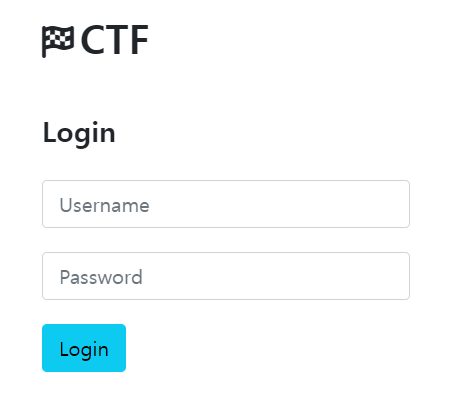
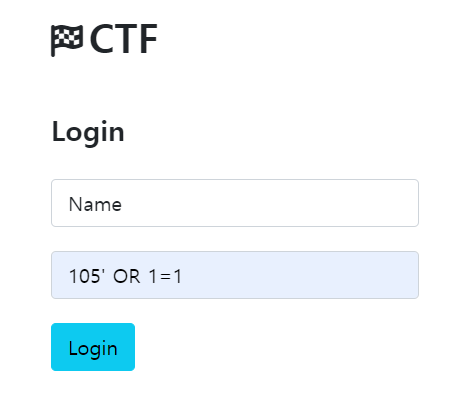
step 1

diff --git a/index3.html b/index3.html
@@ -77,7 +77,7 @@
                     <div class="col-lg-8">
 <!--                         <h2 class="text-white" style="font-weight: 600;">About the Projects</h2>
  -->                        <p class="text-white-50 indentation">
-                            A place to learn web hacking. I made this project to share my basic knowledge in hacking. 
+                            A place to learn web hacking. I made this project to share my basic knowledge in hacking, and allow people to practice using my site.
                             Website contains vulnerabilities such as sql injection, xss, and more
                             You can hack my site using input boxes, cookies, and local storage. Using vulnerabilities, you can inject script to bypass certain steps or destroy the website.
                             I mainly used basic website building blocks like html, css, and js, and used node js to run the server.
@@ -99,7 +99,9 @@
                     <div class="col-md-4 col-sm-2">
                         <h3 class="text-white mb-2 mt-5" data-aos="fade-right" data-aos-duration="1500">Step 1</h3>
                         <p class="text-white-50" data-aos="fade-right" data-aos-duration="1500">
-                           There are input boxes in the main page, a page for user to login. However, using sql injection, you can bypass login page and go to other pages. 
+                           There are input boxes in the main page, a page for user to login. However, using sql injection, you can bypass login page and go to other pages.
+                           Our goal is to insert a script in password input and trick the server by running it. Because the code simply runs the script, you can change values or boolean statement 
+                           that checks whether your password or username is correct.
                         </p>
                     </div>
                     <div class="col-md-4 col-sm-2">
